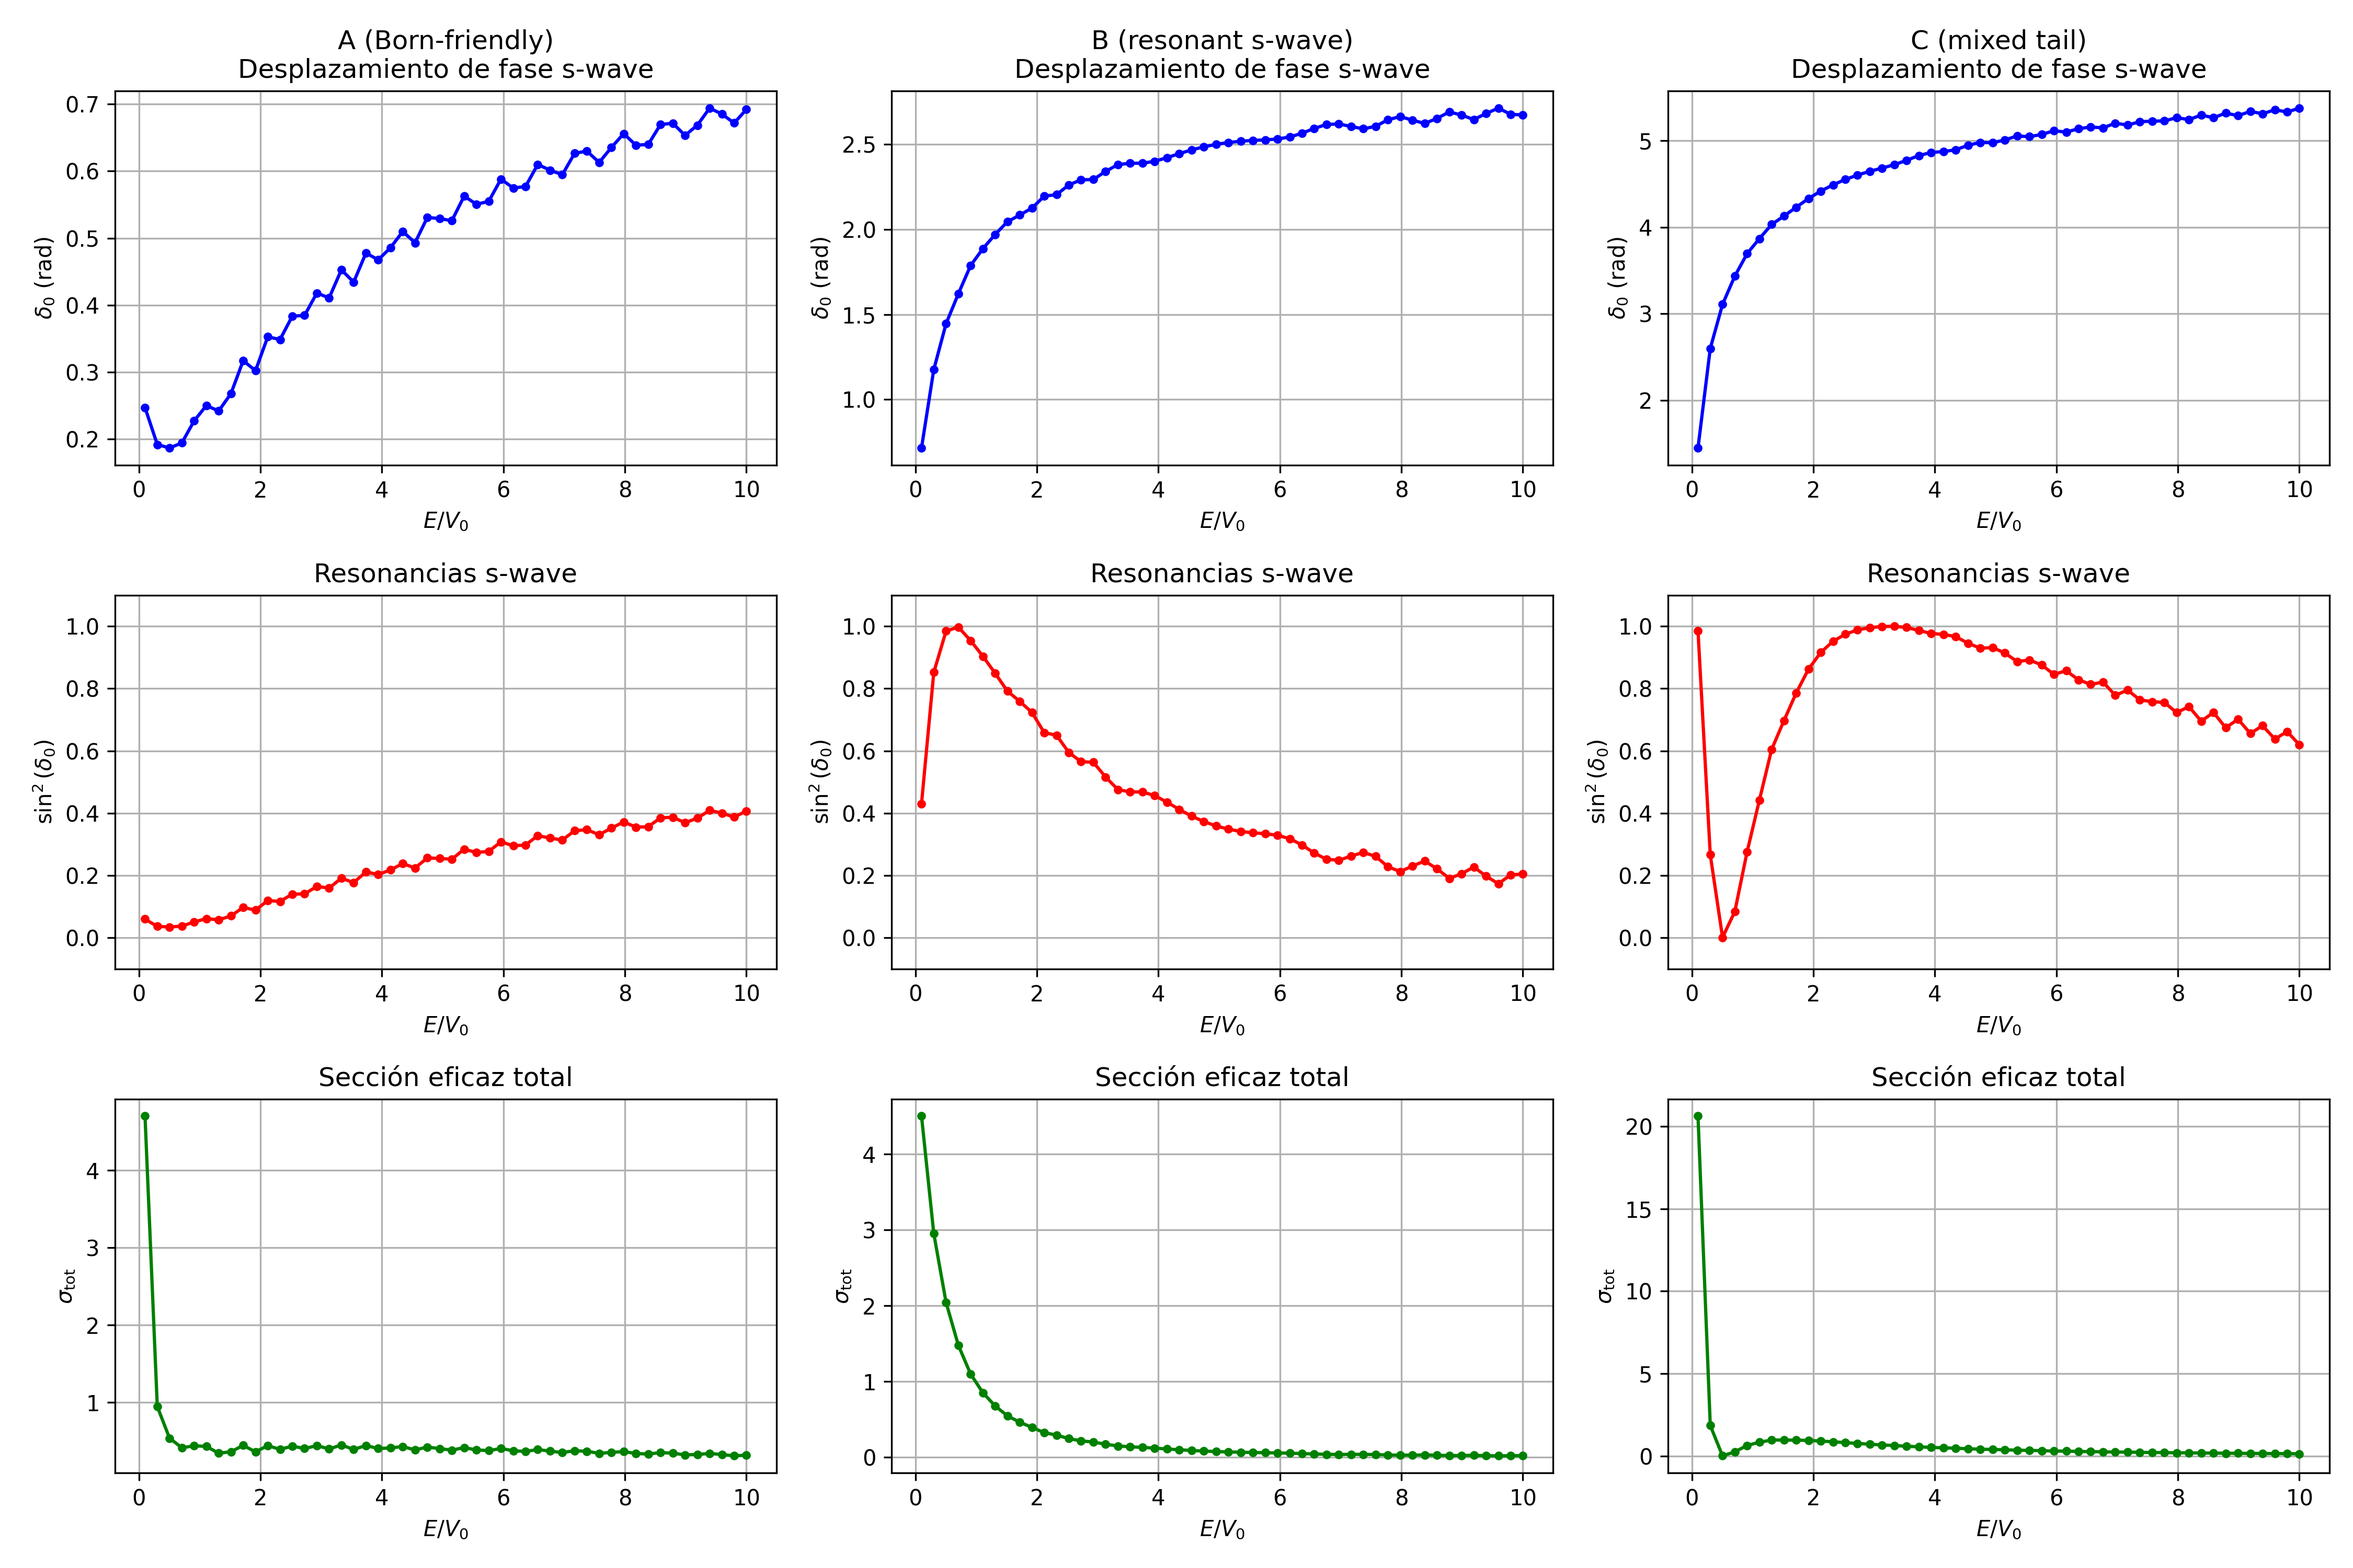
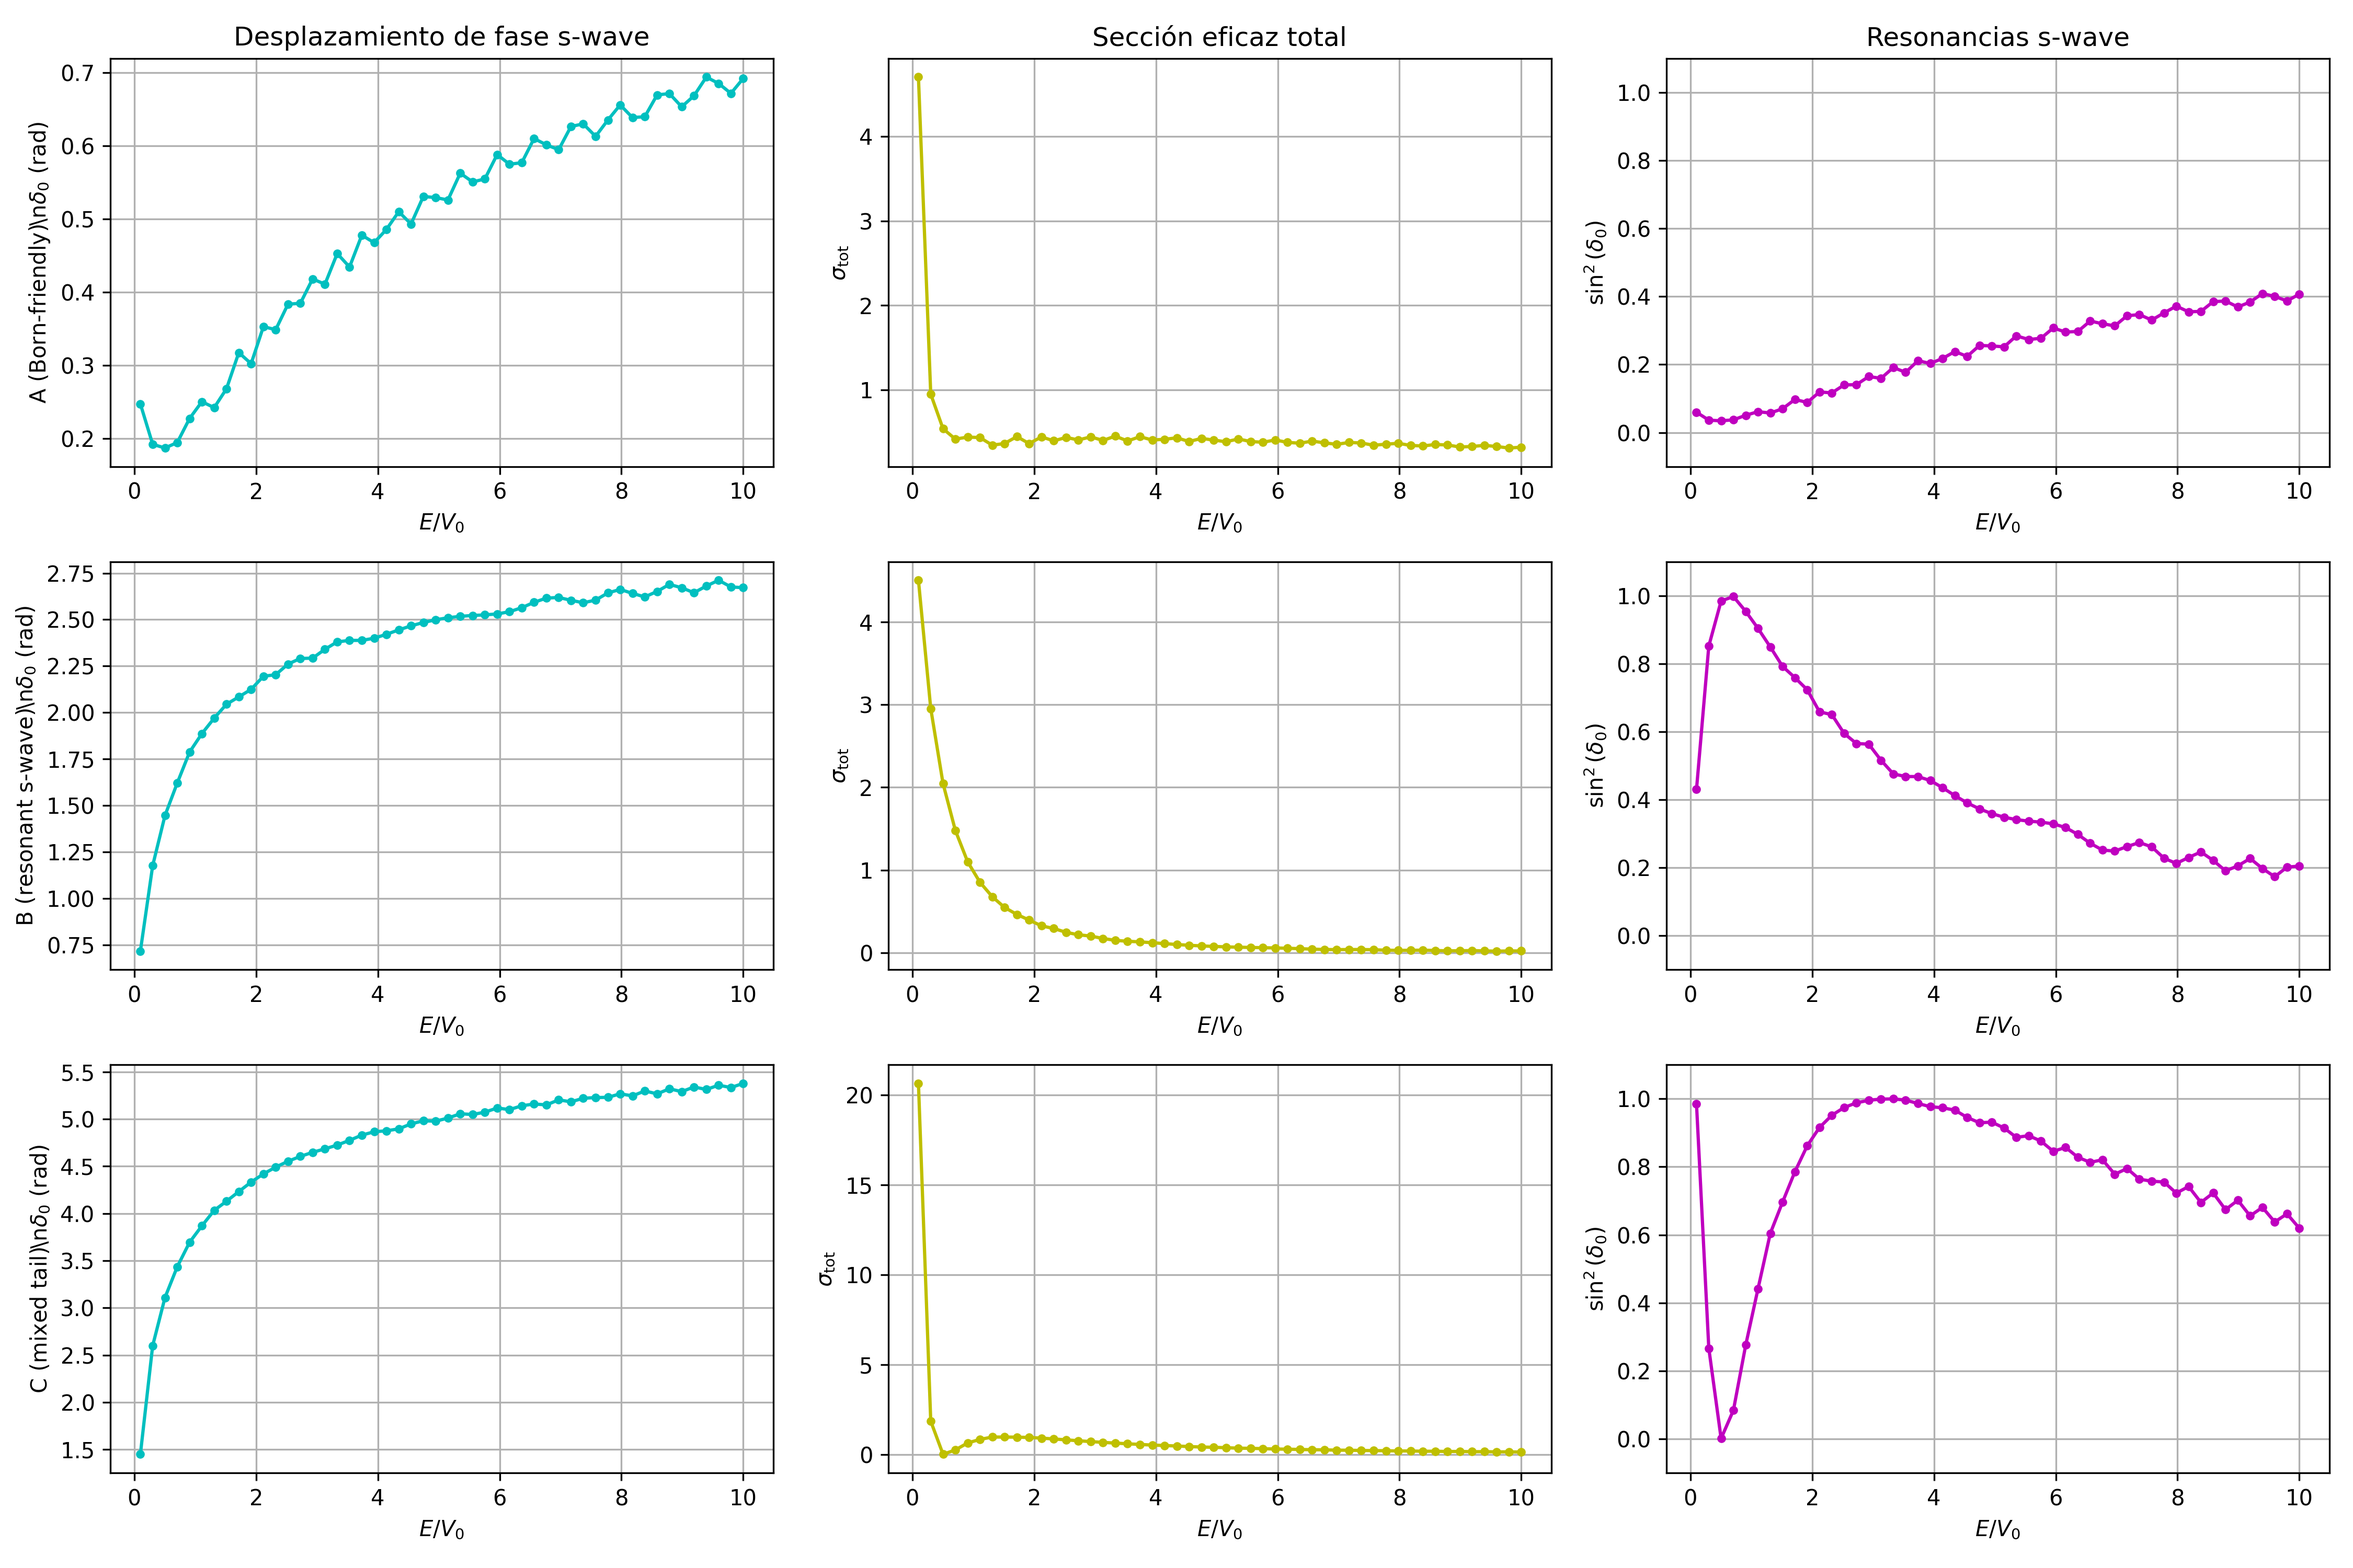
changed graphs

diff --git a/scattering_comparison.py b/scattering_comparison.py
@@ -101,10 +101,11 @@ if __name__ == "__main__":
     E_over_V0 = np.linspace(0.1, 10.0, 50)
     ells = [0]  # only s-wave in this comparison
 
-    fig, axes = plt.subplots(3, 3, figsize=(15, 10))
+    # Now: rows = param sets, cols = graph types
+    fig, axes = plt.subplots(len(param_sets), 3, figsize=(15, 10))
     plt.subplots_adjust(hspace=0.4, wspace=0.3)
 
-    for col, (title, V0, a, b, p, lam) in enumerate(param_sets):
+    for row, (title, V0, a, b, p, lam) in enumerate(param_sets):
         # Compute phase shifts, sin^2, and cross sections
         deltas, sin2_vals, sigma_vals = [], [], []
         for ratio in E_over_V0:
@@ -115,32 +116,35 @@ if __name__ == "__main__":
             sin2_vals.append(np.sin(delta)**2)
             sigma_vals.append(total_cross_section([delta], k))
 
-
+        # Beautify deltas
         deltas = better_deltas(deltas, flip=True)
 
-        # --- Row 1: Phase shifts
-        ax1 = axes[0, col]
-        ax1.plot(E_over_V0, deltas, color="blue", marker=".")
-        ax1.set_title(f"{title}\nDesplazamiento de fase s-wave")
+        # --- Col 0: Phase shifts
+        ax1 = axes[row, 0]
+        ax1.plot(E_over_V0, deltas, color="c", marker=".")
+        if row == 0:
+            ax1.set_title("Desplazamiento de fase s-wave")
         ax1.set_xlabel(r"$E/V_0$")
-        ax1.set_ylabel(r"$\delta_0$ (rad)")
+        ax1.set_ylabel(fr"{title}\n$\delta_0$ (rad)")
         ax1.grid(True)
 
-        # --- Row 2: Resonance plot sin^2
-        ax2 = axes[1, col]
-        ax2.plot(E_over_V0, sin2_vals, color="red", marker=".")
-        ax2.set_title("Resonancias s-wave")
+        # --- Col 1: Total cross section
+        ax2 = axes[row, 1]
+        ax2.plot(E_over_V0, sigma_vals, color="y", marker=".")
+        if row == 0:
+            ax2.set_title("Sección eficaz total")
         ax2.set_xlabel(r"$E/V_0$")
-        ax2.set_ylabel(r"$\sin^2(\delta_0)$")
-        ax2.set_ylim(-0.1, 1.1)  # full resonance range
+        ax2.set_ylabel(r"$\sigma_{\text{tot}}$")
         ax2.grid(True)
 
-        # --- Row 3: Total cross section
-        ax3 = axes[2, col]
-        ax3.plot(E_over_V0, sigma_vals, color="green", marker=".")
-        ax3.set_title("Sección eficaz total")
+        # --- Col 2: Resonance sin^2
+        ax3 = axes[row, 2]
+        ax3.plot(E_over_V0, sin2_vals, color="m", marker=".")
+        if row == 0:
+            ax3.set_title("Resonancias s-wave")
         ax3.set_xlabel(r"$E/V_0$")
-        ax3.set_ylabel(r"$\sigma_{\text{tot}}$")
+        ax3.set_ylabel(r"$\sin^2(\delta_0)$")
+        ax3.set_ylim(-0.1, 1.1)  # full resonance range
         ax3.grid(True)
 
     plt.tight_layout()
